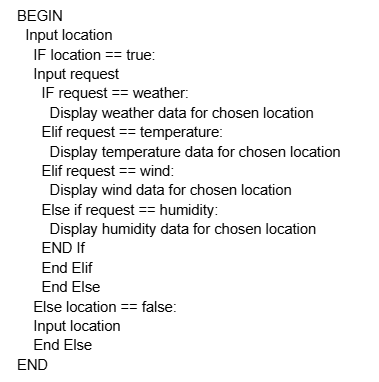
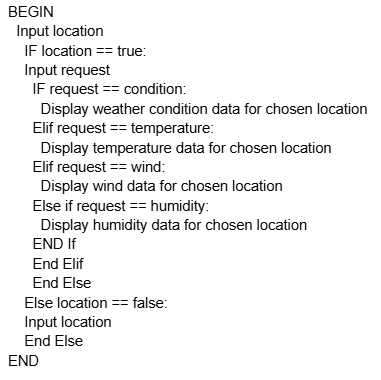
Home 25/03/25
I decided to change my code a little because I have time and I want to make it better. However, my laptop cannot run terminal so I am not sure if this code will work. I will have to check when I get to school.

Changed region(s): [[0.0, 0.0, 0.9578, 0.9842]]

diff --git a/main.py b/main.py
@@ -27,16 +27,29 @@ def display_weather_info(weather_data):
         condition = weather_data["current"]["condition"]["text"]
         humidity = weather_data["current"]["humidity"]
         wind = weather_data["current"]["wind_kph"]
-
-
-        print(f"Weather in {location}, {region}, {country}:")
-        print(f"Temperature: {temperature}°C")
-        print(f"Condition: {condition}")
-        print(f"Humidity: {humidity}%")
-        print(f"Wind: {wind}km/h")
     
+    data = input("Enter data you require from either temperature, condition, wind, or humidity: ")
+    print(f"Weather in {location}, {region}, {country}:")
+    if data == condition:
+     print(f"Condition: {condition}")
+    elif data == temperature:
+     print(f"Temperature: {temperature}°C")
+    elif data == wind:
+     print(f"Wind: {wind}km/h")
+    elif data == humidity:
+     print(f"Humidity: {humidity}%")
     else:
-        print("Error retrieving weather data. Please check if you made a spelling mistake in your input for location.")
+     print("Error retrieving weather data. Please check if you made a spelling mistake in your input.")
+
+
+       # print(f"Weather in {location}, {region}, {country}:")
+       # print(f"Condition: {condition}")
+       # print(f"Temperature: {temperature}°C")
+       # print(f"Humidity: {humidity}%")
+       # print(f"Wind: {wind}km/h")
+    
+    #else:
+        #print("Error retrieving weather data. Please check if you made a spelling mistake in your input for location.")
 
 def main():
     city =input("Enter city name: ")

diff --git a/PROJECT_DEVELOPMENT.MD b/PROJECT_DEVELOPMENT.MD
@@ -66,16 +66,19 @@ def display_weather_info(weather_data):
         condition = weather_data["current"]["condition"]["text"]
         humidity = weather_data["current"]["humidity"]
         wind = weather_data["current"]["wind_kph"]
-
-
-        print(f"Weather in {location}, {region}, {country}:")
-        print(f"Temperature: {temperature}°C")
-        print(f"Condition: {condition}")
-        print(f"Humidity: {humidity}%")
-        print(f"Wind: {wind}km/h")
     
+    data = input("Enter data you require from either temperature, condition, wind, or humidity: ")
+     print(f"Weather in {location}, {region}, {country}:")
+    if data == condition:
+     print(f"Condition: {condition}")
+    elif data == temperature:
+     print(f"Temperature: {temperature}°C")
+    elif data == wind:
+     print(f"Wind: {wind}km/h")
+    elif data == humidity:
+     print(f"Humidity: {humidity}%")
     else:
-        print("Error retrieving weather data. Please check if you made a spelling mistake in your input for location.")
+     print("Error retrieving weather data. Please check if you made a spelling mistake in your input.")
 
 def main():
     city =input("Enter city name: ")
